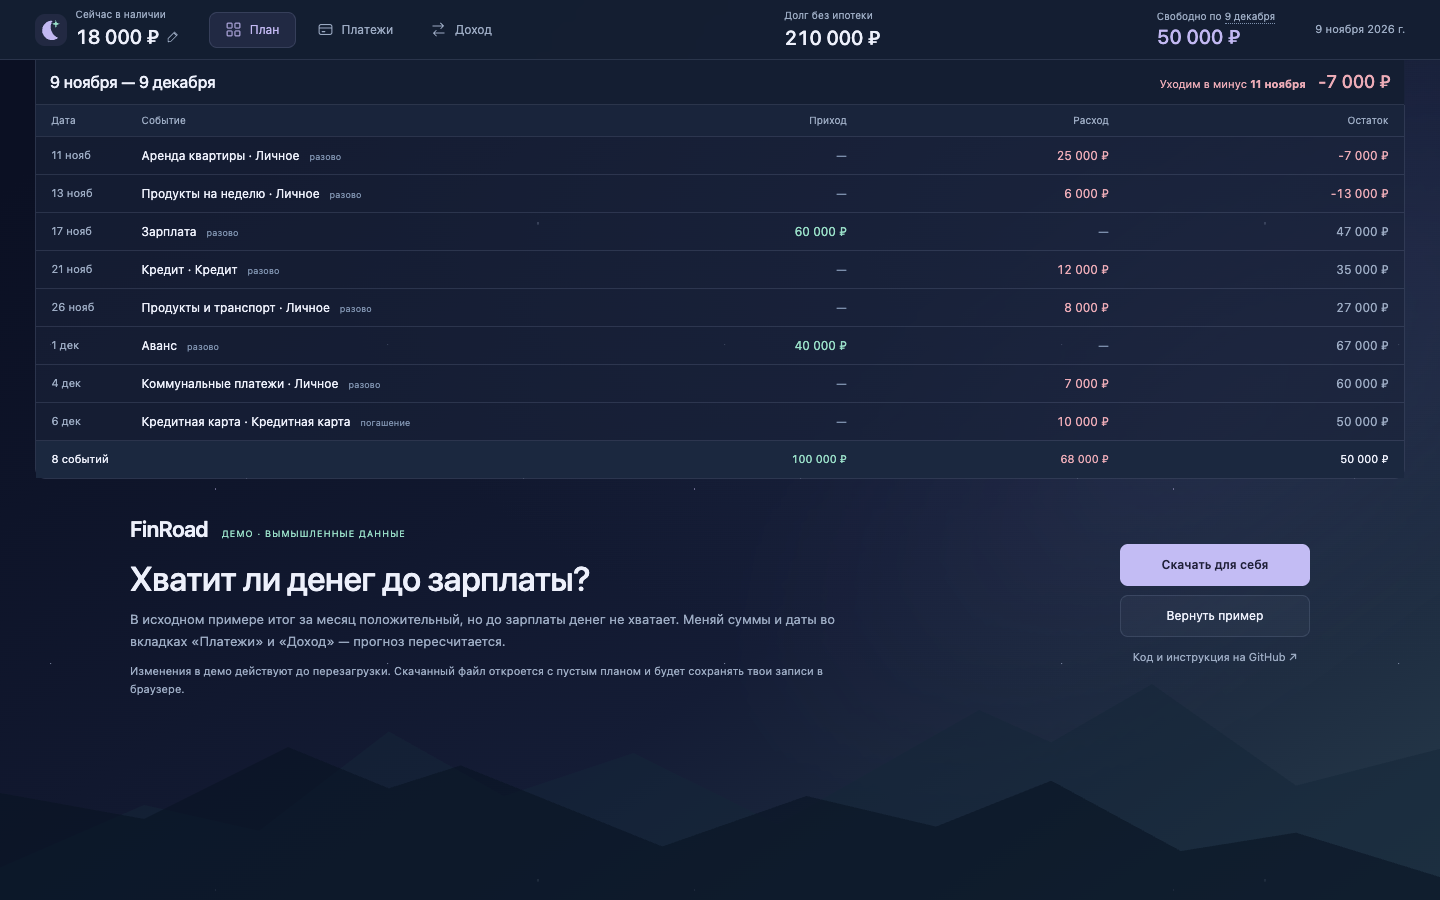
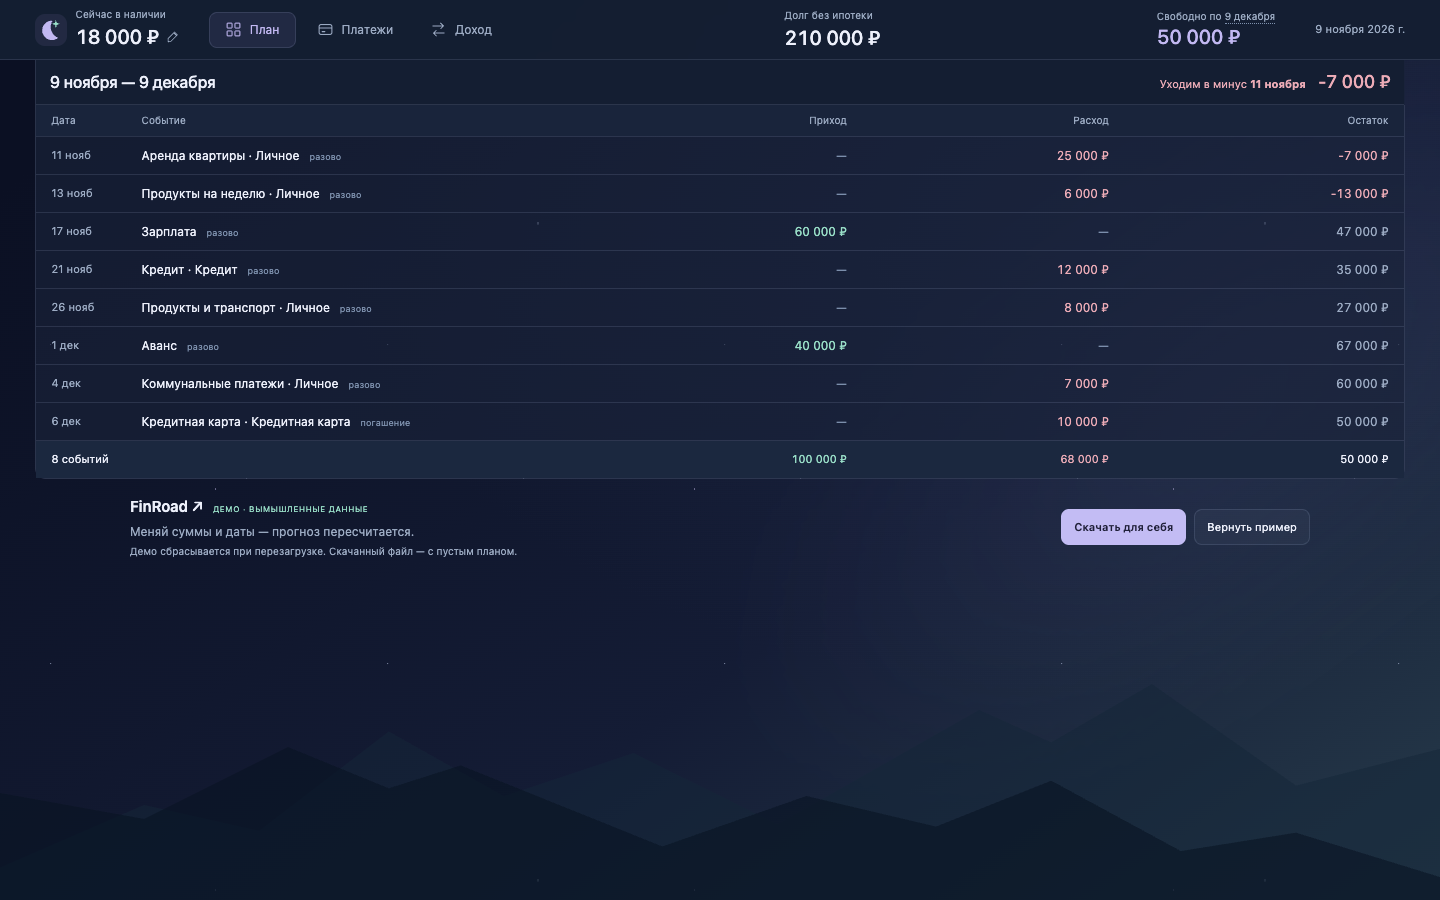
Make the demo footer compact

Changed region(s): [[0.0938, 0.56, 0.5625, 0.7778], [0.7188, 0.56, 0.9062, 0.7467]]

diff --git a/FinRoad.html b/FinRoad.html
@@ -149,17 +149,15 @@ input,textarea,.row-name,.header-balance strong{user-select:text;-webkit-user-se
 .transfer-tag{display:block;font-size:10px;color:var(--muted);white-space:normal}
 
 /* A short introduction only appears in the public, temporary demo. */
-.demo-intro{display:flex;justify-content:space-between;align-items:center;gap:32px;padding:34px 0 28px;max-width:1180px;margin:auto}
-.demo-copy{max-width:740px}.demo-brand{color:var(--text);font-size:22px;font-weight:600;letter-spacing:-.5px;text-decoration:none}
-.demo-badge{display:inline-block;margin:0 0 0 14px;font-size:9px;letter-spacing:1px;color:var(--mint)}
-.demo-copy h1{font-size:clamp(23px,3vw,34px);font-weight:500;letter-spacing:-.7px;margin:12px 0 10px;line-height:1.2}
-.demo-copy p{font-size:13px;line-height:1.7;color:var(--muted);margin:0 0 10px}
-.demo-copy small{display:block;font-size:11px;line-height:1.6;color:var(--muted)}
-.demo-actions{display:flex;flex-direction:column;gap:9px;flex-shrink:0;min-width:190px}
-.demo-actions .button{justify-content:center;text-decoration:none;font-size:12px;padding:11px 16px}
-.demo-source{font-size:11px;color:var(--muted);text-align:center;text-decoration:none;padding-top:3px}
-.demo-source:hover,.demo-brand:hover{color:var(--purple)}
-@media(max-width:640px){.demo-intro{display:block;padding:24px 0 22px}.demo-badge{margin-left:10px;font-size:8px;letter-spacing:.5px}.demo-copy p{font-size:12px}.demo-copy small{font-size:10px}.demo-actions{margin-top:18px;display:grid;grid-template-columns:1fr 1fr;min-width:0;gap:8px}.demo-actions .button{padding:10px 8px;font-size:11px}.demo-source{grid-column:1/-1;padding:6px 0 0}}
+.demo-intro{display:flex;justify-content:space-between;align-items:center;gap:20px;padding:16px 0;max-width:1180px;margin:auto}
+.demo-copy{min-width:0}.demo-brand{color:var(--text);font-size:15px;font-weight:600;text-decoration:none}
+.demo-badge{display:inline-block;margin-left:10px;font-size:8px;letter-spacing:.5px;color:var(--mint)}
+.demo-copy p{font-size:12px;line-height:1.5;color:var(--muted);margin:6px 0 3px}
+.demo-copy small{display:block;font-size:10px;line-height:1.5;color:var(--muted)}
+.demo-actions{display:flex;gap:8px;flex-shrink:0}
+.demo-actions .button{justify-content:center;text-decoration:none;font-size:11px;padding:9px 12px;white-space:nowrap}
+.demo-brand:hover{color:var(--purple)}
+@media(max-width:640px){.demo-intro{display:block;padding:14px 0}.demo-actions{margin-top:10px;display:grid;grid-template-columns:1fr 1fr;gap:8px}.demo-actions .button{padding:10px 8px}}
 
 @media(max-width:640px){
   .payment-ledger tfoot tr{display:flex;justify-content:space-between;gap:12px}

diff --git a/public/style.css b/public/style.css
@@ -146,17 +146,15 @@ input,textarea,.row-name,.header-balance strong{user-select:text;-webkit-user-se
 .transfer-tag{display:block;font-size:10px;color:var(--muted);white-space:normal}
 
 /* A short introduction only appears in the public, temporary demo. */
-.demo-intro{display:flex;justify-content:space-between;align-items:center;gap:32px;padding:34px 0 28px;max-width:1180px;margin:auto}
-.demo-copy{max-width:740px}.demo-brand{color:var(--text);font-size:22px;font-weight:600;letter-spacing:-.5px;text-decoration:none}
-.demo-badge{display:inline-block;margin:0 0 0 14px;font-size:9px;letter-spacing:1px;color:var(--mint)}
-.demo-copy h1{font-size:clamp(23px,3vw,34px);font-weight:500;letter-spacing:-.7px;margin:12px 0 10px;line-height:1.2}
-.demo-copy p{font-size:13px;line-height:1.7;color:var(--muted);margin:0 0 10px}
-.demo-copy small{display:block;font-size:11px;line-height:1.6;color:var(--muted)}
-.demo-actions{display:flex;flex-direction:column;gap:9px;flex-shrink:0;min-width:190px}
-.demo-actions .button{justify-content:center;text-decoration:none;font-size:12px;padding:11px 16px}
-.demo-source{font-size:11px;color:var(--muted);text-align:center;text-decoration:none;padding-top:3px}
-.demo-source:hover,.demo-brand:hover{color:var(--purple)}
-@media(max-width:640px){.demo-intro{display:block;padding:24px 0 22px}.demo-badge{margin-left:10px;font-size:8px;letter-spacing:.5px}.demo-copy p{font-size:12px}.demo-copy small{font-size:10px}.demo-actions{margin-top:18px;display:grid;grid-template-columns:1fr 1fr;min-width:0;gap:8px}.demo-actions .button{padding:10px 8px;font-size:11px}.demo-source{grid-column:1/-1;padding:6px 0 0}}
+.demo-intro{display:flex;justify-content:space-between;align-items:center;gap:20px;padding:16px 0;max-width:1180px;margin:auto}
+.demo-copy{min-width:0}.demo-brand{color:var(--text);font-size:15px;font-weight:600;text-decoration:none}
+.demo-badge{display:inline-block;margin-left:10px;font-size:8px;letter-spacing:.5px;color:var(--mint)}
+.demo-copy p{font-size:12px;line-height:1.5;color:var(--muted);margin:6px 0 3px}
+.demo-copy small{display:block;font-size:10px;line-height:1.5;color:var(--muted)}
+.demo-actions{display:flex;gap:8px;flex-shrink:0}
+.demo-actions .button{justify-content:center;text-decoration:none;font-size:11px;padding:9px 12px;white-space:nowrap}
+.demo-brand:hover{color:var(--purple)}
+@media(max-width:640px){.demo-intro{display:block;padding:14px 0}.demo-actions{margin-top:10px;display:grid;grid-template-columns:1fr 1fr;gap:8px}.demo-actions .button{padding:10px 8px}}
 
 @media(max-width:640px){
   .payment-ledger tfoot tr{display:flex;justify-content:space-between;gap:12px}

diff --git a/scripts/build_standalone.py b/scripts/build_standalone.py
@@ -25,11 +25,10 @@ def build(demo=False):
         html = html.replace('<body>', '<body data-demo="true">')
         html = html.replace('<title>FinRoad · Финансы под звёздами</title>', '<title>FinRoad · Попробовать на примере</title>')
         banner = '''<section class="demo-intro" aria-label="Знакомство с FinRoad">
-          <div class="demo-copy"><a class="demo-brand" href="https://github.com/Sad-Jack/FinRoad">FinRoad</a><span class="demo-badge">ДЕМО · ВЫМЫШЛЕННЫЕ ДАННЫЕ</span>
-          <h1>Хватит ли денег до зарплаты?</h1>
-          <p>В исходном примере итог за месяц положительный, но до зарплаты денег не хватает. Меняй суммы и даты во вкладках «Платежи» и «Доход» — прогноз пересчитается.</p>
-          <small>Изменения в демо действуют до перезагрузки. Скачанный файл откроется с пустым планом и будет сохранять твои записи в браузере.</small></div>
-          <div class="demo-actions"><a class="button primary" href="FinRoad.html" download="FinRoad.html">Скачать для себя</a><button class="button" type="button" data-action="reset-demo">Вернуть пример</button><a class="demo-source" href="https://github.com/Sad-Jack/FinRoad">Код и инструкция на GitHub ↗</a></div>
+          <div class="demo-copy"><a class="demo-brand" href="https://github.com/Sad-Jack/FinRoad" title="Код и инструкция на GitHub">FinRoad ↗</a><span class="demo-badge">ДЕМО · ВЫМЫШЛЕННЫЕ ДАННЫЕ</span>
+          <p>Меняй суммы и даты — прогноз пересчитается.</p>
+          <small>Демо сбрасывается при перезагрузке. Скачанный файл — с пустым планом.</small></div>
+          <div class="demo-actions"><a class="button primary" href="FinRoad.html" download="FinRoad.html">Скачать для себя</a><button class="button" type="button" data-action="reset-demo">Вернуть пример</button></div>
         </section>'''
         html = html.replace('</main>', '</main>' + banner)
     favicon = base64.b64encode((ROOT / 'public/favicon.svg').read_bytes()).decode()
